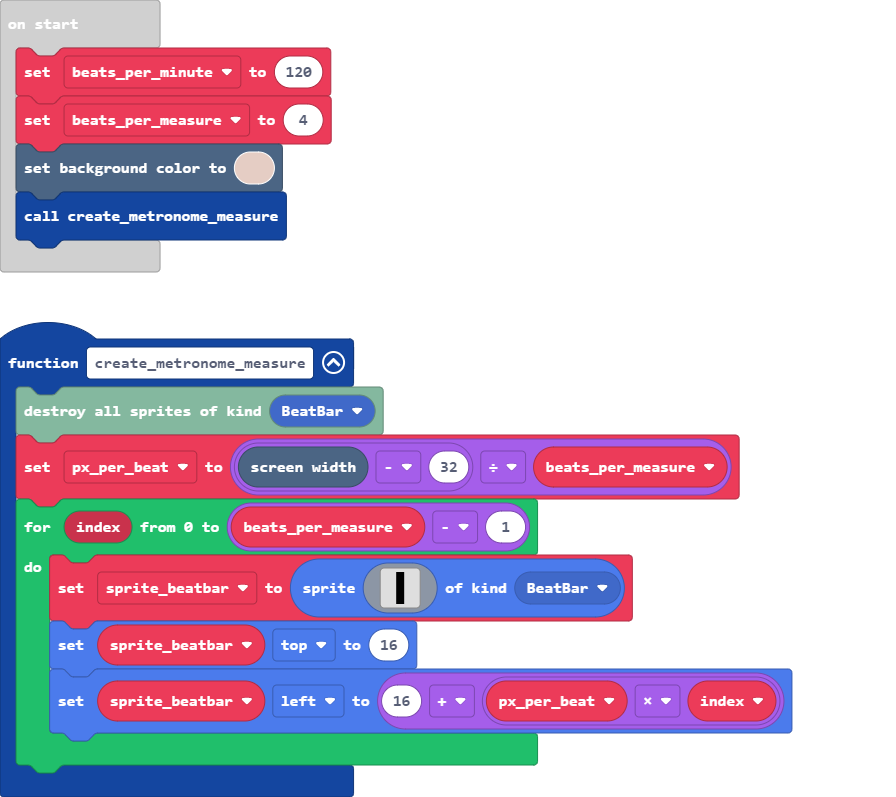
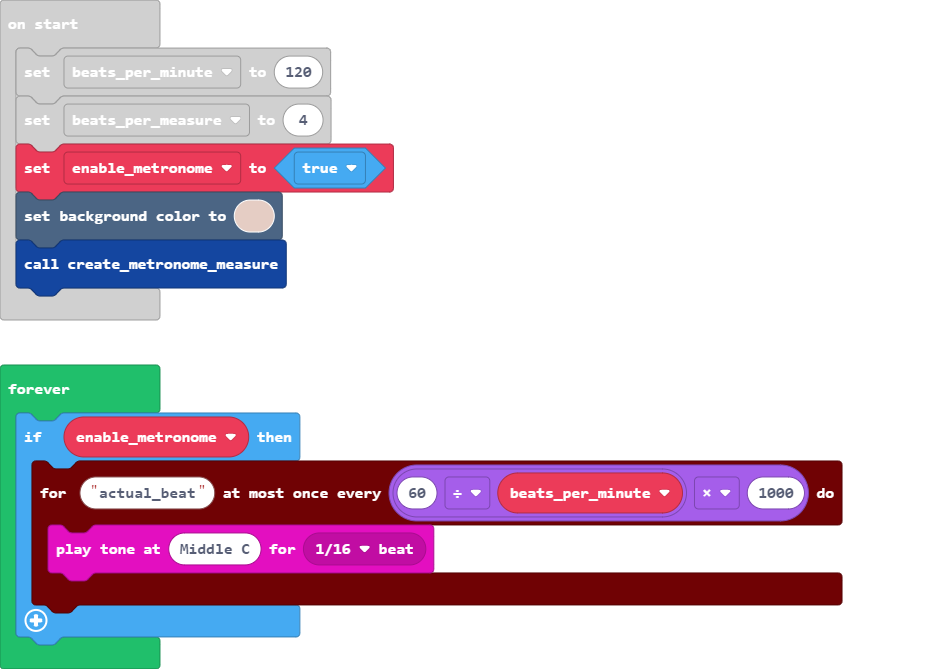
Can actually make noise

diff --git a/main.ts b/main.ts
@@ -15,5 +15,13 @@ let px_per_beat = 0
 let beats_per_measure = 0
 let beats_per_minute = 120
 beats_per_measure = 4
+let enable_metronome = true
 scene.setBackgroundColor(13)
 create_metronome_measure()
+forever(function () {
+    if (enable_metronome) {
+        timer.throttle("actual_beat", 60 / beats_per_minute * 1000, function () {
+            music.playTone(262, music.beat(BeatFraction.Sixteenth))
+        })
+    }
+})
